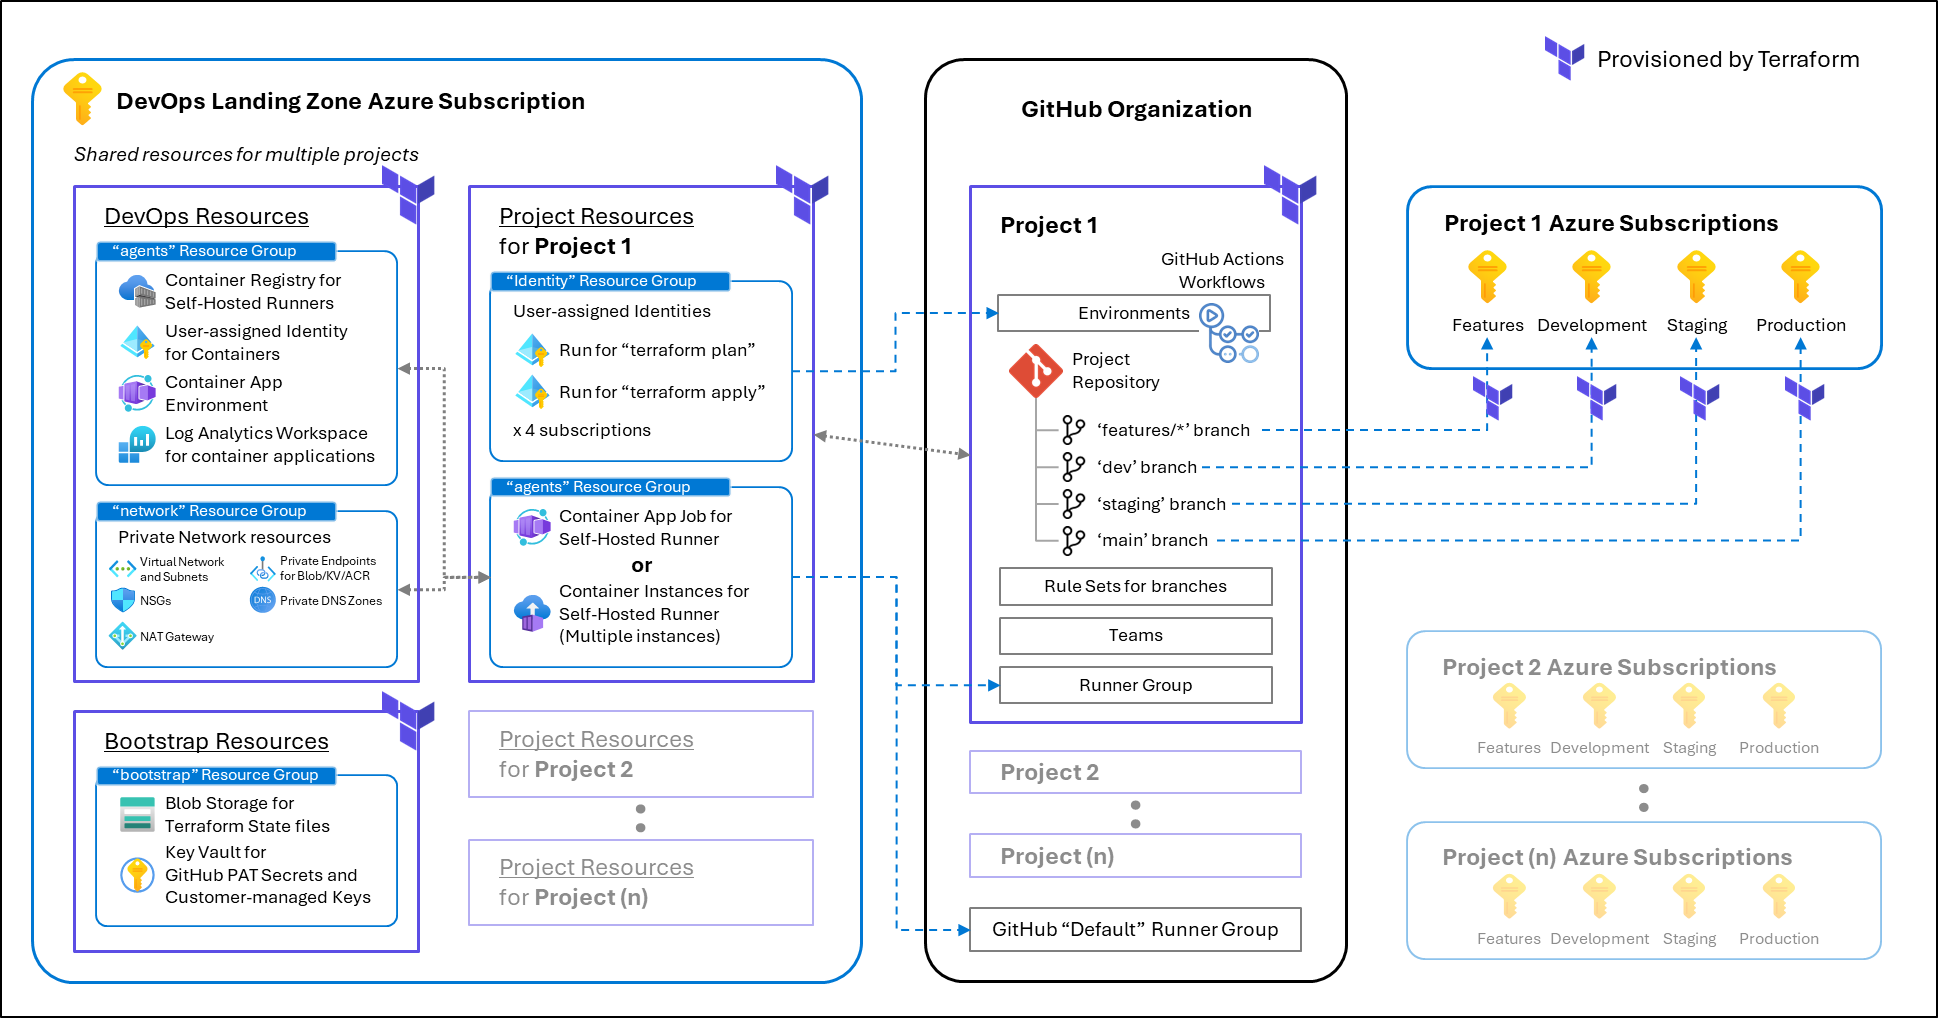
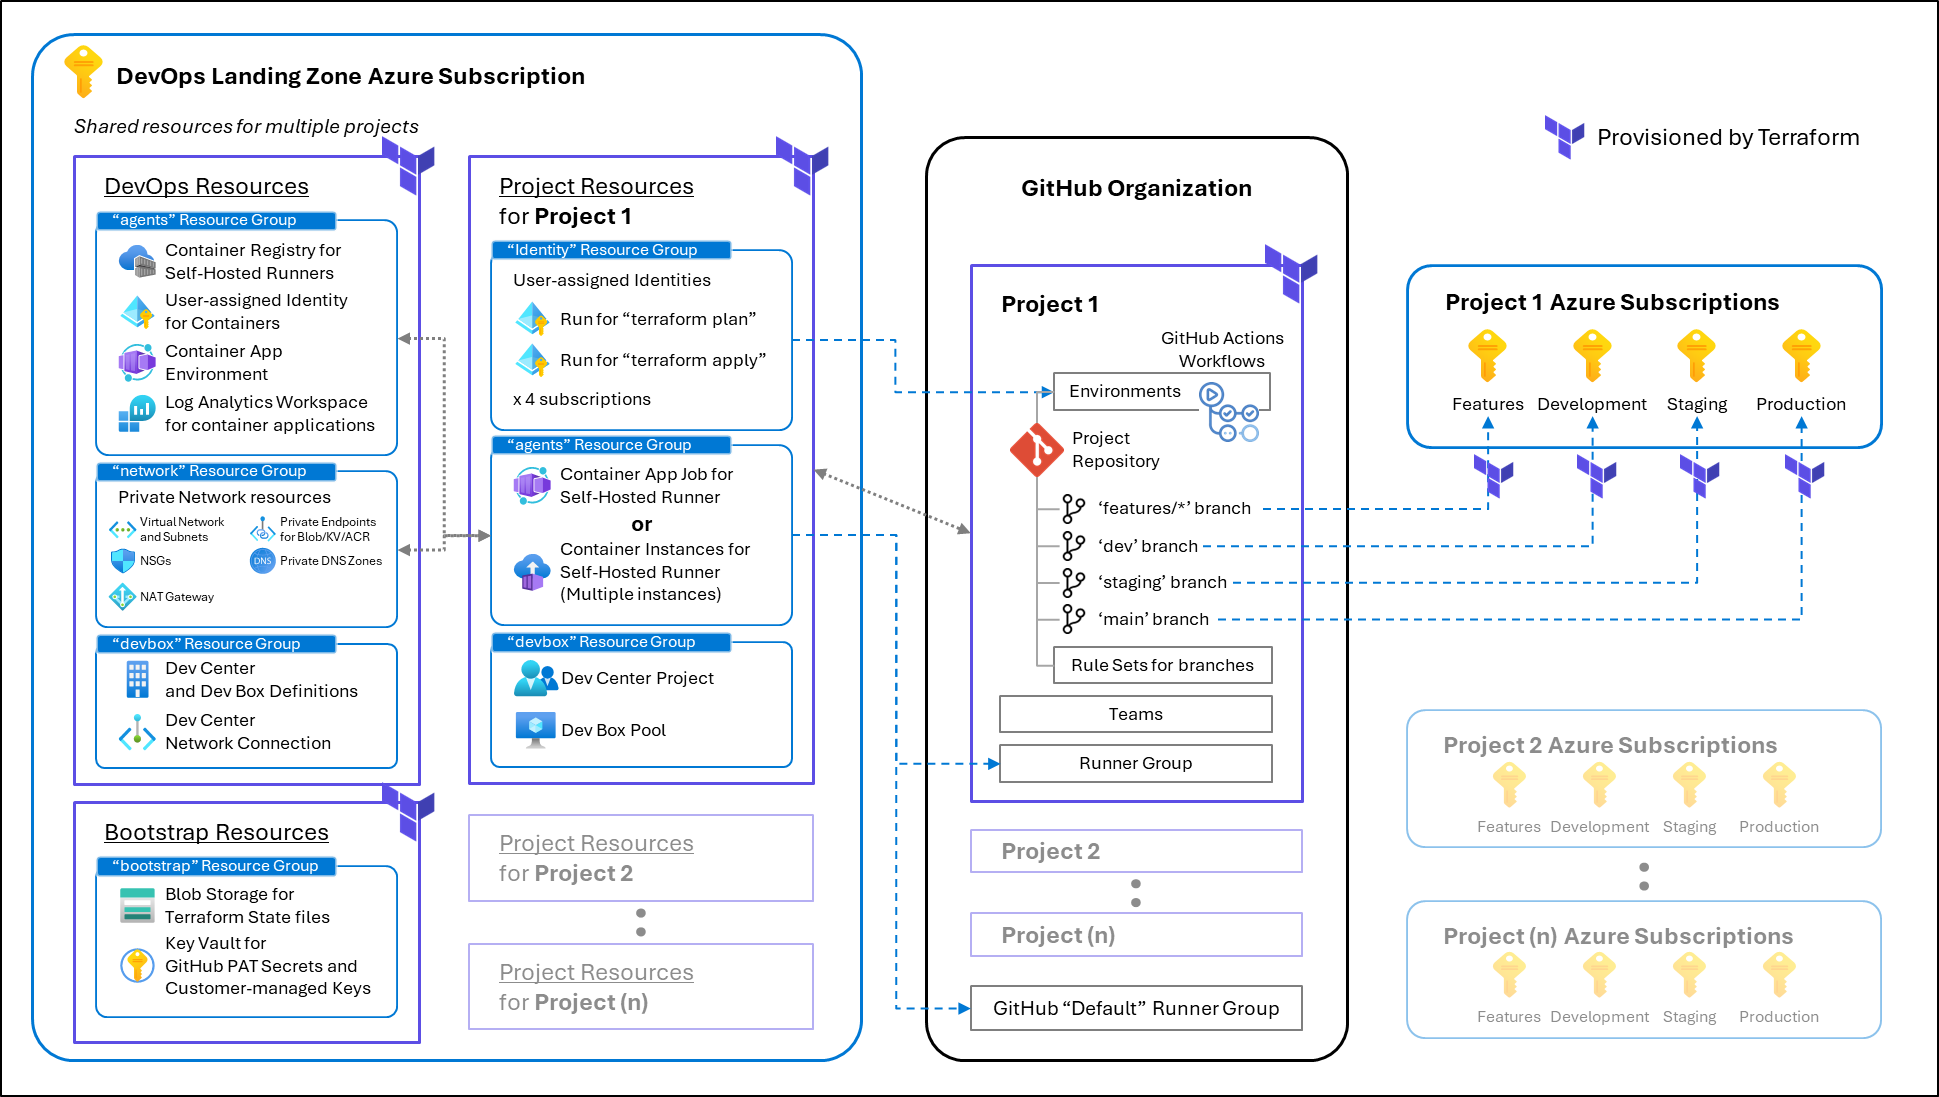
docs: ✏ Update diagrams and add support for Dev Box

diff --git a/README.md b/README.md
@@ -28,7 +28,7 @@
 This repository provides a comprehensive, modular infrastructure-as-code solution for deploying and managing Azure resources with using Terraform and CI/CD workflows. This is designed to support both Azure DevOps and GitHub-based CI/CD workflows, enabling organizations to automate the provisioning of secure, scalable, and policy-compliant cloud environments using infrastructure as code, versioned with Git.
 The project Git repository which is provisined by this module is designed to be used in enterprise environments and follows Azure and Terraform best practices.
 
-![DevOps Landing Zone Architecture Overview](/docs/images/devops-landing-zone-architecture.png)
+![High-level DevOps Landing Zone Architecture Overview](/docs/images/devops-landing-zone-architecture.png)
 
 Key features include:
 
@@ -44,6 +44,14 @@ The `infra/terraform` directory contains all core infrastructure code, organized
 > Currently we only support GitHub projects.
 >
 > We are planning to support Azure DevOps projects in the near future.
+
+## Azure Architecture
+
+The architecture including Azure network is shown in the diagram below. This diagram shows a configuration where a private virtual network is enabled and a GitHub self-hosted runners are hosted in Azure Container App jobs and execute CI/CD workflow jobs in an event-driven manner using KEDA scaling.
+
+It also shows a configuration where a project for a Microsoft Dev Box is deployed so that developers can work for Azure projects using a secure development environment. The Dev Box virtual desktop is connected to a private virtual network, so it can securely access Terraform state management files and deploy and manage Azure resources.
+
+![Azure Architecture of DevOps Landing Zone](./docs/images/devops-landing-zone-azure-network-architecture-with-aca.png)
 
 <a id="getting-started"></a>
 
@@ -91,6 +99,18 @@ Please log in to your Entra ID using Azure CLI.
 ```bash
 az login --tenant <Tenant_Id>
 ```
+
+> [!NOTE]
+> Please register a list of resource providers for all subscriptions you have prepared.
+>
+> The Terraform IaC code prepared in this repository requires that you need to register the necessary resource providers in advance. Also, in your future Azure projects, it may cause an error when running `terraform plan` with the allocated user-assigned identity.
+>
+> To register resource providers, you can use the script in the following folder to register the specified resource providers in bulk.
+>
+> ```bash
+> cd $ProjectRoot/infra/terraform/_setup_subscriptions
+> ./register_rps.sh -s <your_subscription_id>
+> ```
 
 <a id="start-1-provision-bootstrap"></a>
 

diff --git a/README.ja.md b/README.ja.md
@@ -44,6 +44,14 @@
 >
 > 将来的に Azure DevOps プロジェクトをサポートする予定です。
 
+## Azure アーキテクチャ
+
+Azure ネットワークを含めたアーキテクチャは、以下の図の通りです。この図では、プライベート仮想ネットワークを有効にし、GitHub セルフホステッド ランナーを Azure Container App のジョブを使って、KEDA スケーリングを使ってイベント駆動型で CI/CD ワークフローのジョブを実行する構成を示しています。
+
+また、開発者がセキュアな開発環境を使って Azure プロジェクトの開発を行うことができるよう、Microsoft Dev Box のためのプロジェクトが展開される構成を示しています。Dev Box の仮想テスクトップはプライベート仮想ネットワークに接続されるため、セキュアに Terraform 状態管理ファイルにアクセスを行い、Azure リソースの展開と管理を行うことができます。
+
+![Azure Architecture of DevOps Landing Zone](./docs/images/devops-landing-zone-azure-network-architecture-with-aca.png)
+
 <a id="getting-started"></a>
 
 ## はじめる
@@ -90,6 +98,18 @@ Azure CLI を使って準備した Entra ID にログインします。
 ```bash
 az login --tenant <Tenant_Id>
 ```
+
+> [!NOTE]
+> 準備したすべてのサブスクリプションでリソースプロバイダーの登録を行ってください。
+>
+> このリポジトリで準備した Terraform IaC コードでは、事前に必要となるリソースプロバイダーの登録を行っておくことが必須条件となっています。また、このプラットフォームを利用する Azure プロジェクトで、このリポジトリで展開されるユーザー割り当て ID の権限で `terraform plan` を実行した際にエラーが発生する可能性があります。
+>
+> リソースプロバイダーの登録は、以下のフォルダのスクリプトを利用することで、指定したリソースプロバイダーの一括登録を行うことができます。
+>
+> ```bash
+> cd $ProjectRoot/infra/terraform/_setup_subscriptions
+> ./register_rps.sh -s <your_subscription_id>
+> ```
 
 <a id="start-1-provision-bootstrap"></a>
 
